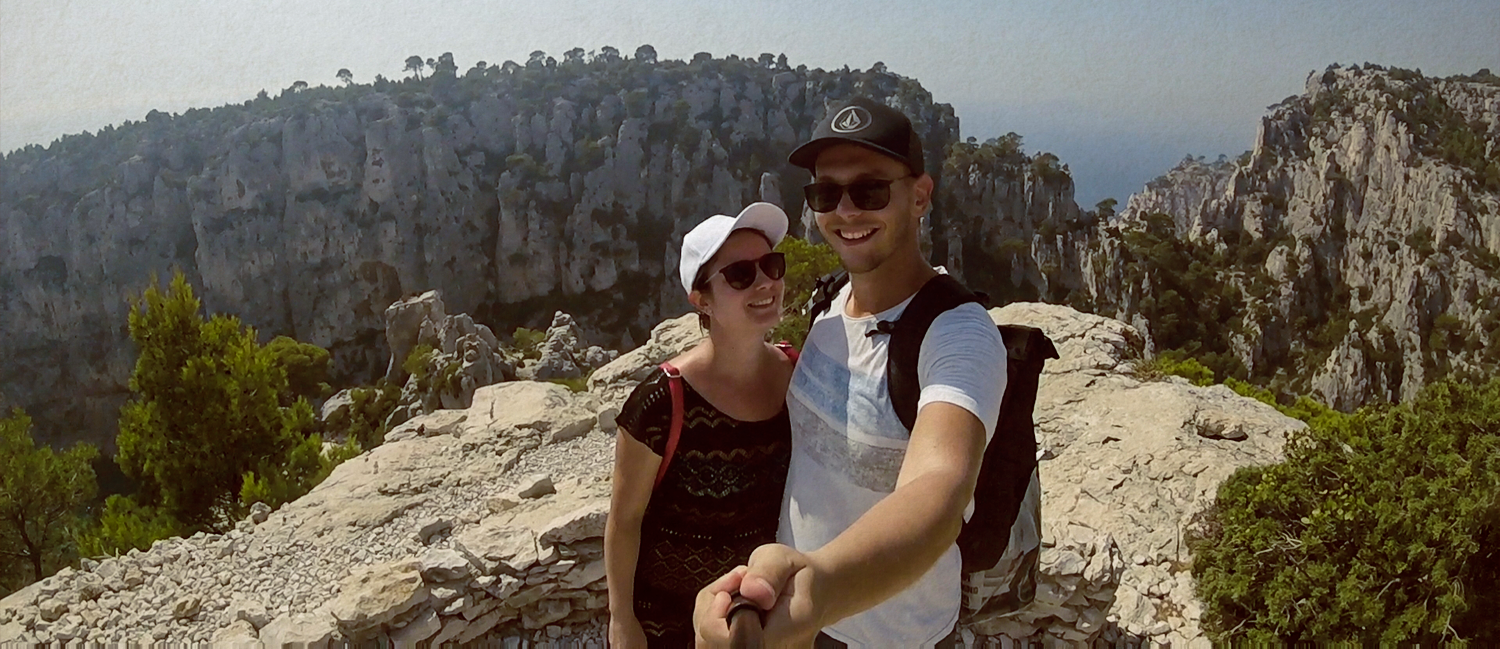
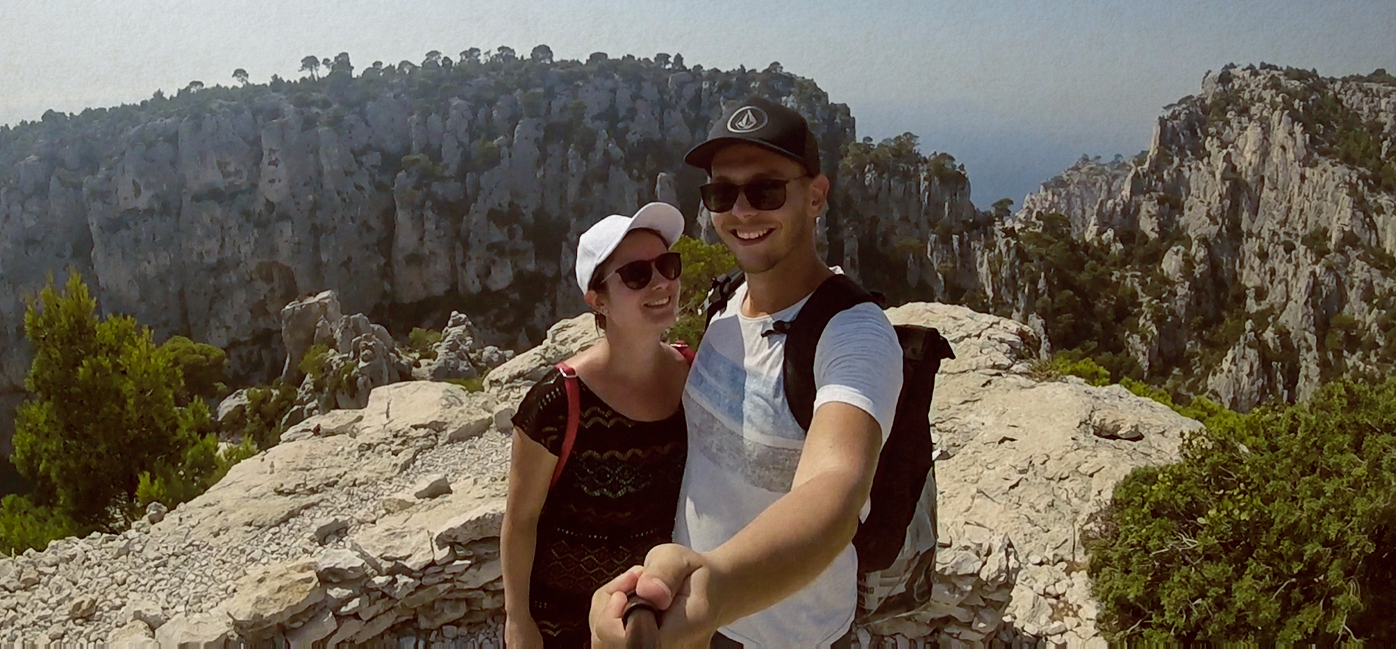
Us mobileS friendly

diff --git a/src/components/Us/Us.styled.js b/src/components/Us/Us.styled.js
@@ -1,6 +1,14 @@
 import styled from 'styled-components'
 import Img from 'gatsby-image'
 
-const Image = styled(Img)``
+import { device } from 'components/styles/variables'
+
+const Image = styled(Img)`
+  min-height: 30rem;
+
+  @media ${device.tablet} {
+    /* -> @media (min-width: 768px)" */
+  }
+`
 
 export { Image }
